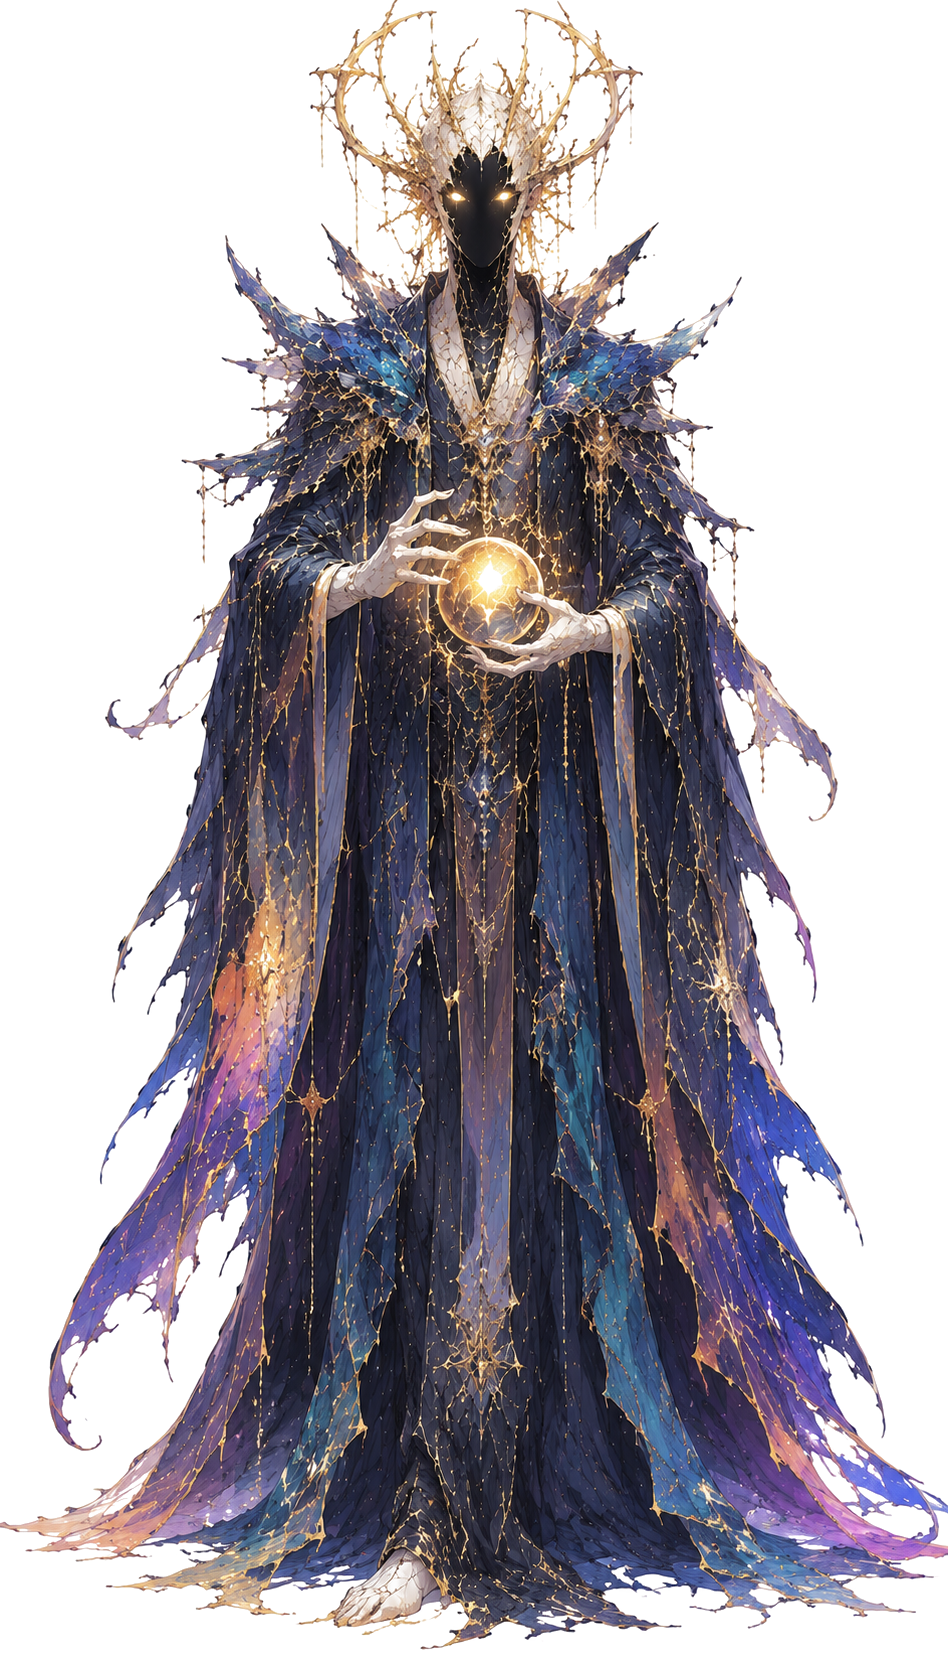
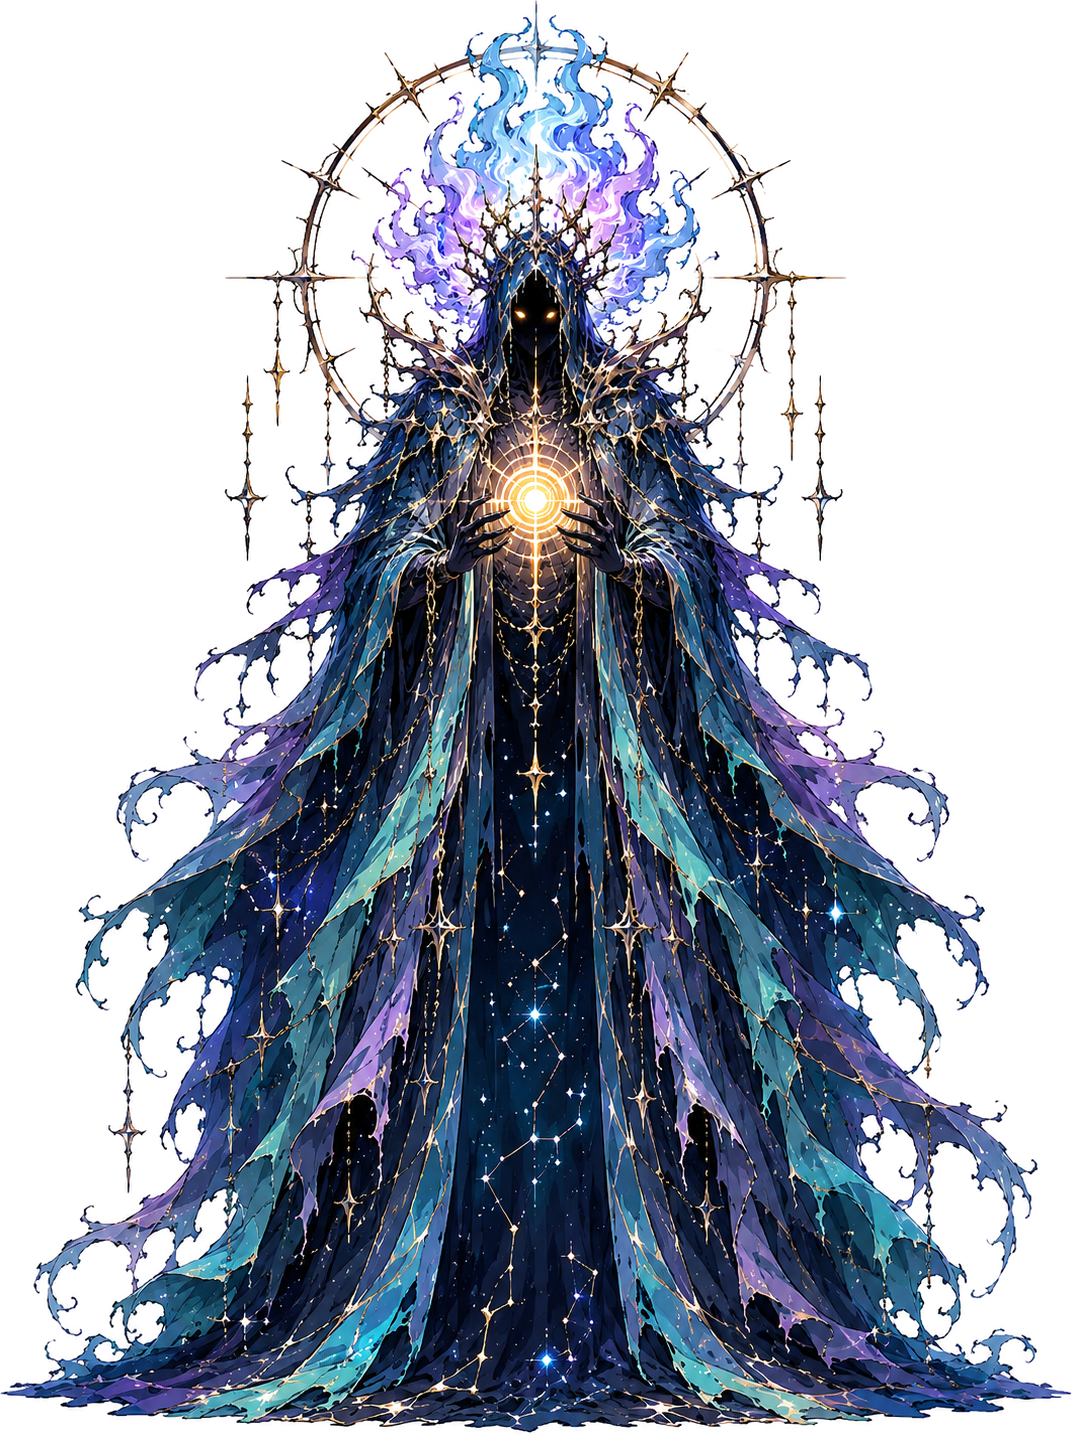
feat: Area 9 (The Hollow Sanctum) — Mapa 1 completo (9/9) + gancho Mapa 2
- Area 9 The Hollow Sanctum: bg coracao da floresta (teal/violeta, Semente central),
  boss final The Gilded Hollow (linha dos mobs iniciais: ceu-estrelado, chama fria,
  orb dourado), trio reaproveitado, banda 81-90
- spawn de mobs = pool CUMULATIVO aleatorio (cada area herda os mobs das anteriores)
- gancho Mapa 2: ao derrotar o boss final 1x, log de encerramento do Mapa 1 +
  chamado das Cavernes Luminis (flag mapOneCleared)
- Gilded Hollow regerado (versao grandiosa, paleta da floresta)

diff --git a/src/combat.js b/src/combat.js
@@ -17,6 +17,21 @@ G.combat = {
 
   spawnCount: 0,
 
+  // pool de mobs comuns disponível na área atual: todos os mobs das áreas
+  // 0..areaIndex, sem repetir (dedupe por nome). Área 1 só tem os da 1; cada
+  // área seguinte herda os anteriores + os seus.
+  enemyPool() {
+    const idx = G.util.clamp(G.state.data.areaIndex || 0, 0, G.data.areas.length - 1);
+    const pool = [];
+    const seen = {};
+    for (let i = 0; i <= idx; i++) {
+      for (const e of G.data.areas[i].enemies) {
+        if (!seen[e.name]) { seen[e.name] = 1; pool.push(e); }
+      }
+    }
+    return pool;
+  },
+
   // ----- cria o próximo inimigo (vida exponencial no nível do MOB) -----
   spawn() {
     const b = G.data.balance;
@@ -37,7 +52,8 @@ G.combat = {
       dmg = atk * b.bossDmgMult;
       xp = b.baseXp * level * b.bossRewardMult;
     } else {
-      def = area.enemies[this.spawnCount % area.enemies.length];
+      // pool cumulativo: mobs de TODAS as áreas até a atual (sorteado aleatório)
+      def = G.util.pick(this.enemyPool());
       maxHp = hp;
       dmg = atk;
       xp = b.baseXp * level;
@@ -175,8 +191,17 @@ G.combat = {
         G.ui.log(`✦ Area cleared! ${next.name} unlocked — advance when ready.`, "boss");
       }
       if (G.ui && G.ui.renderResources) G.ui.renderResources(); // atualiza as setas
-    } else if (G.ui && G.ui.log) {
-      G.ui.log(`✦ ${G.data.currentArea().name} cleared — more awaits beyond.`, "boss");
+    } else {
+      // última sub-área = clímax do Mapa 1 (gancho pro Mapa 2)
+      if (!d.mapOneCleared) {
+        d.mapOneCleared = true;
+        if (G.ui && G.ui.log) {
+          G.ui.log("✦ The Dreaming Wood falls silent. The Gilded Hollow is undone — Map 1 complete.", "boss");
+          G.ui.log("✦ In the hush, a cold crystalline call echoes from deep below: fragments singing in the Cavernes Luminis. Something deeper begins to wake.", "boss");
+        }
+      } else if (G.ui && G.ui.log) {
+        G.ui.log(`✦ ${G.data.currentArea().name} cleared again.`, "boss");
+      }
     }
   },
 

diff --git a/src/data.js b/src/data.js
@@ -228,6 +228,19 @@ G.data = {
       ],
       boss: { name: "The Heartroot Mourner", sprite: "🩸", img: "assets/enemies/heartroot_mourner.png" },
     },
+    {
+      // Área 9 — The Hollow Sanctum: o coração da floresta, clímax do Mapa 1.
+      id: 9,
+      name: "The Hollow Sanctum",
+      img: "assets/areas/hollow_sanctum.png",
+      levelRange: [81, 90],
+      enemies: [
+        { name: "Rootbound Weeper", sprite: "🌱", img: "assets/enemies/rootbound_weeper.png" },   // reaproveitado (Á8)
+        { name: "Hollowed Acolyte", sprite: "⛪", img: "assets/enemies/hollowed_acolyte.png" },     // reaproveitado (Á7)
+        { name: "Thornlight Stalker", sprite: "🌵", img: "assets/enemies/thornlight_stalker.png" }, // reaproveitado (Á6)
+      ],
+      boss: { name: "The Gilded Hollow", sprite: "👁", img: "assets/enemies/gilded_hollow.png" },
+    },
   ],
 
   // área atual (em função do progresso salvo)

diff --git a/src/state.js b/src/state.js
@@ -20,6 +20,7 @@ G.state = {
       inventory: [],         // (loot desligado por enquanto — mantido p/ futuro)
       areaIndex: 0,          // sub-área atual do Mapa 1 (0 = The Dreaming Wood)
       maxAreaUnlocked: 0,    // maior sub-área liberada (boss anterior derrotado)
+      mapOneCleared: false,  // Mapa 1 concluído (boss final derrotado ao menos 1x)
       equipped: G.gear.freshSet(), // 6 peças FIXAS (Nv.1, Comum) — ver gear.js
       lastSeen: Date.now(),  // p/ progresso offline
     };